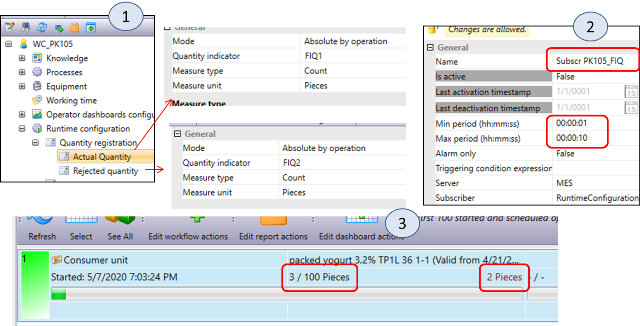
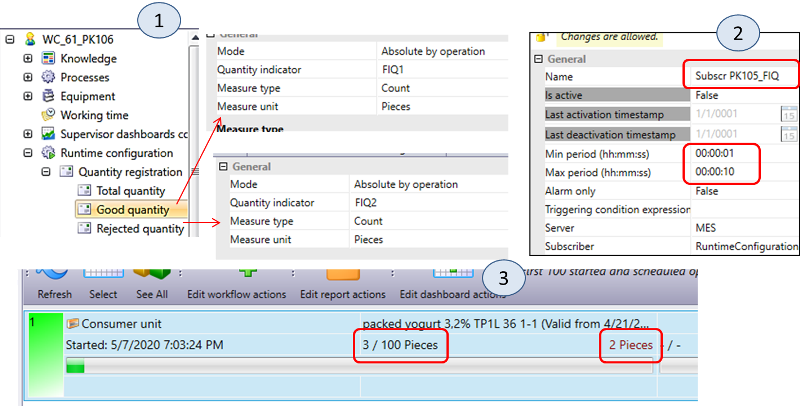
7 павки

diff --git a/лабораторні/7_KPI.md b/лабораторні/7_KPI.md
@@ -32,7 +32,7 @@
 
 1.Додайте EQUIPMENT з ім\'ям `EQ_XX_PK105` в робочий центр `WC_XX_PK105` якщо він відсутній.
 
-2.Додайте і налаштуйте відсутні `EQUIPMENT Parameters` в EQUIPMENT `EQ_XX_PK105` згідно з таблицею:
+2.Додайте і налаштуйте відсутні `EQUIPMENT Parameters` в EQUIPMENT `EQ_XX_PK105` згідно з таблицею, якщо Ви цього не зробили раніше:
 
 | **EQUIPMENT** **Parameter** | **URL**                               | **Mode**         | **Expression** |
 | --------------------------- | ------------------------------------- | ---------------- | -------------- |
@@ -87,7 +87,7 @@
 
 5.Для перевірки правильності роботи імітаційної програми для обладнання і зв\'язку її з робочими центрами на одному їх `Workcenter PK`, наприклад `WC_XX_PK107`, зробіть наступні кроки:
 
-- У вікні настройки `EQ_XX_PK107` відкрийте `Indicators`, в полі `Data` повинні бути значення; якщо значень немає, перевірте чи запущений Node-RED, правильність URL в параметрах; при необхідності перезапустіть всі служби Momentum (необхідні пава адміністратора)
+- У вікні настройки `EQ_XX_PK107` відкрийте `Indicators`, в полі `Data` повинні бути значення; якщо значень немає, перевірте правильність URL в параметрах; повідомте викладача якщо виникли проблеми
 
 - Запустіть OPC UA Expert, з\'єднаєтеся з NodeOPCUA і виведіть весь вміст сайту `PXX_A1.PK107` (рис.7.1(6)). Призначення тегів:
   - `STA` - стан керуючої програми розливної машини: `0` - ініціалізація, `1` - простій, `2` - виконання; значення `0` - неприпустимо і означає непрацездатність програми;
@@ -96,7 +96,7 @@
   - `FIQ2` - лічильник неякісно розфасованої продукції (бій, деформація і т.п.)
   - `smOn` - включений режим імітації лічильників продукту
 
-- У модулі Operator відкрийте панель управління `WC_XX_PK107`. Створіть тестову операцію на фасування якого-небуть продукту, наприклад `CU_XX_126` `packed yogurt 3,2% C0,5L XX`
+- У модулі `Supervisor` відкрийте панель керування `WC_XX_PK107`. Якщо робочий центр не видимий - попросіть адміністратора надати вам права на цей та інші робочі центри.  Створіть тестову операцію на фасування якого-небуть продукту, наприклад `CU_XX_126` `packed yogurt 3,2% C0,5L XX`
 
 
 - Запустіть тестову операцію на виконання. Десь через 10 секунд проконтролюйте в NodeOPCUA наступні значення:
@@ -133,13 +133,13 @@
 
 - У `WC_XX_PK105` додайте `Runtime Configuration`
 
-- У налаштуваннях `Actual Quantity` і `Rejected Quantity` виставте всі налаштування відповідно рис.7.3(1).
+- У налаштуваннях `Good Quantity` і `Rejected Quantity` виставте всі налаштування відповідно рис.7.3(1).
 
 - У налаштуваннях `Quantity registration` виберіть `Active operation` і додайте DataCenter Subscription (кнопка «+»). Після цього, використовуючи кнопку «\...» перейдіть в налаштування Subscription, де означте ім\'я `Subscr PK105_XX_FIQ ` і параметри (рис.7.3(2)). Активуйте підписку, використовуючи кнопку `Activate`
 
 - Проконтролюйте що `Work Center Feedback` в Work Center встановлено в `Material Lot`.
 
-- Використовуючи кнопку `Create test operation` панелі інструментів Operator Control для Workcenter `WC_XX_PK105` додайте Operation для продукту `CU_XX_122` `packed milk 3,2% B2LXX`. Запустіть на виконання. Переконайтеся що кількість виробленого якісного (actual - зелена поділка) і неякісного (rejected - червоне число праворуч від поділки) продукту змінюється (рис.7.3(2)). Якщо кількість не змінюється, першопочатково перевірте, чи в налаштуваннях робочого центру стоїть властивість `Work Center Feedback = Material Lot`   
+- Використовуючи кнопку `Create test operation` панелі інструментів `Supervisor` для Workcenter `WC_XX_PK105` додайте Operation для продукту `CU_XX_122` `packed milk 3,2% B2LXX`. Запустіть на виконання. Переконайтеся що кількість виробленого якісного (actual - зелена поділка) і неякісного (rejected - червоне число праворуч від поділки) продукту змінюється (рис.7.3(2)). Якщо кількість не змінюється, першопочатково перевірте, чи в налаштуваннях робочого центру стоїть властивість `Work Center Feedback = Material Lot`  а також чи змінються відповідні змінні як вказано в попередньому пункті.    
 - Зупиніть виконання операції.
 
 2\. Повторіть п.1. для `WC_XX_PK106`-`WC_XX_PK108`.
